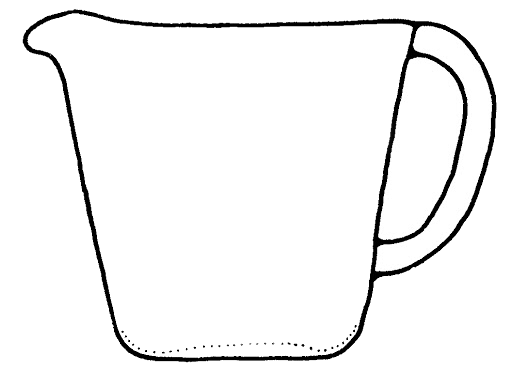
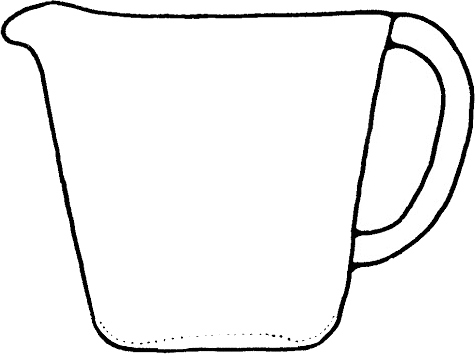
updating cereal measuring cup

Changed region(s): [[0.0, 0.0, 1.0, 1.0]]

diff --git a/index.html b/index.html
@@ -219,8 +219,8 @@
 	          			<div class="content" style="width: auto; height: auto">
 	          				<div class="demo">
 							  <div class="demo__content">
-
 							    <div class="demo__card-cont">
+
 							      <div class="demo__card">
 							        <div class="demo__card__top">
 							        	<div class="scroll">
@@ -229,6 +229,13 @@
 							        		<div class="profile-margin">
 							        			<p class="profile-title" style="margin: 0px">Admiral, <img src="assets/pictures/animalCrossing/horoscope/black-aquarius-2-24.png"></p>
 								        		<hr></hr>
+
+								        		<p>
+								        			aye aye<br/>
+
+								        			Only quitters give up!
+
+								        		</p>
 								        		<div class="level">
 								        			<div class="level-left">
 								        				<p>Steep Hill<br/><img src="assets/pictures/icons/spotify.png" width="20px"> K.K. Slider</p>
@@ -262,7 +269,6 @@
 								        		</div>
 							        		</div>	
 							        	</div>
-
 							        </div>
 							        <div class="demo__card__choice m--reject"></div>
 							        <div class="demo__card__choice m--like"></div>
@@ -309,7 +315,6 @@
 								        		</div>
 							        		</div>	
 							        	</div>
-
 							        </div>
 							        <div class="demo__card__choice m--reject"></div>
 							        <div class="demo__card__choice m--like"></div>
@@ -368,7 +373,7 @@
 	          			<script type="text/javascript" src="javascript/tinder.js"></script>
 	          		</div>
 	          	</div>
-	          	<div class="column is-one-third" style="overflow-y: auto; height: 100vh">
+	          	<div class="column is-one-third" style="overflow-y: auto; height: 100vh;">
 	          		<p class="title">Animal Crossing Tinder</p>
 	          		<p class="text">Lorem ipsum dolor sit amet, consectetur adipisicing elit, sed do eiusmod
 	          		tempor incididunt ut labore et dolore magna aliqua. Ut enim ad minim veniam,
@@ -483,7 +488,7 @@
 	        				</div>
 
 	        				<div class="column">
-	        					<div class="card">
+	        					<div class="card" style="margin-bottom: 10px">
 			        				<div class="card-content" style="padding: 15px">
 									    <div class="media">
 									      <div class="media-left">
@@ -516,14 +521,40 @@
 	        			</div>
 
 	          		<p class="title">References</p>
-	          		<ol>
+	          		<ol style="margin-bottom: 200px">
 		        		<div class="columns" style="margin-bottom: 75px">
 		        			<div class="column">
 		        				<li class="citation">All 391 villagers' Posters <sup><a href="https://animalcrossing.fandom.com/wiki/Villager_list_(New_Horizons)">[1]</a></sup></li>
-
+		        				<li class="citation">All villager face icons <sup><a href="https://imgur.com/a/3NnyBTM">[1]</a></sup></li>
+		        				<li class="citation">Black emoji <sup><a href="https://hotemoji.com/medium-black-circle-emoji.html">[1]</a></sup></li>
+		        				<li class="citation">Green emoji <sup><a href="https://commons.wikimedia.org/wiki/File:LACMTA_Circle_Green_Line.svg">[1]</a></sup></li>
+		        				<li class="citation">Red emoji <sup><a href="https://emojiterra.com/red-circle/">[1]</a></sup></li>
+		        				<li class="citation">Pink emoji <sup><a href="https://toppng.com/ink-circle-clip-art-at-clker-pink-circle-clipart-PNG-free-PNG-Images_273825?search-result=green-circle-paint-splatter">[1]</a></sup></li>
+		        				<li class="citation">Rainbow emoji <sup><a href="https://emojiterra.com/rainbow/">[1]</a></sup></li>
+		        				<li class="citation">Yellow emoji <sup><a href="https://emojiguide.org/yellow-circle">[1]</a></sup></li>
+		        				<li class="citation">Blue emoji <sup><a href="https://hotemoji.com/blue-circle-emoji.html">[1]</a></sup></li>
+		        				<li class="citation">Purple emoji <sup><a href="https://emojiterra.com/purple-circle/">[1]</a></sup></li>
+		        				<li class="citation">White emoji <sup><a href="https://hotemoji.com/medium-white-circle-emoji.html">[1]</a></sup></li>
+		        				<li class="citation">Gray emoji <sup><a href="https://www.uokpl.rs/rsvi/hmooTbx_rageline-gray-circle/">[1]</a></sup></li>
+		        				<li class="citation">Brown emoji <sup><a href="https://emojiterra.com/brown-circle/">[1]</a></sup></li>
+		        				<li class="citation">Aqua emoji <sup><a href="https://nce.aasa.org/">[1]</a></sup></li>
 		        			</div>
 		        			<div class="column">
-		        				<li class="citation">All villager face icons <sup><a href="https://imgur.com/a/3NnyBTM">[1]</a></sup></li>
+		        				<li class="citation">Target emoji <sup><a href="google.com/url?sa=i&url=http%3A%2F%2Ficon-library.com%2Ficon%2Fgoal-icon-png-24.html&psig=AOvVaw1HjrZyGllrcEWP0xBLBykT&ust=1594283695525000&source=images&cd=vfe&ved=0CAIQjRxqFwoTCKDg0umfveoCFQAAAAAdAAAAABAD">[1]</a></sup></li>
+		        				<li class="citation">Modern art emoji <sup><a href="https://www.kisscc0.com/clipart/cubism-graphic-arts-modern-art-abstract-art-bichit-6ze8df/">[1]</a></sup></li>
+		        				<li class="citation">Basic emoji <sup><a href="https://emojiterra.com/neutral-face/">[1]</a></sup></li>
+		        				<li class="citation">Rock emoji <sup><a href="https://www.pngwing.com/en/free-png-yposi">[1]</a></sup></li>
+		        				<li class="citation">Cute emoji <sup><a href="https://emojiterra.com/smiling-face-with-3-hearts/">[1]</a></sup></li>
+		        				<li class="citation">Flashy emoji <sup><a href="https://emojiterra.com/sparkles/">[1]</a></sup></li>
+		        				<li class="citation">Spoon emoji <sup><a href="https://emojiterra.com/spoon/">[1]</a></sup></li>
+		        				<li class="citation">Milk emoji <sup><a href="https://emojipedia.org/google/android-7.0/glass-of-milk/">[1]</a></sup></li>
+		        				<li class="citation">Cow emoji <sup><a href="https://emojiterra.com/cow/">[1]</a></sup></li>
+		        				<li class="citation">Coffee emoji <sup><a href="https://emojiterra.com/hot-beverage/">[1]</a></sup></li>
+		        				<li class="citation">Open book emoji <sup><a href="https://emojiterra.com/open-book/">[1]</a></sup></li>
+		        				<li class="citation">Running emoji <sup><a href="https://creazilla.com/nodes/54350-person-running-emoji-clipart">[1]</a></sup></li>
+		        				<li class="citation">Mirror emoji <sup><a href="https://emojiterra.com/mirror/">[1]</a></sup></li>
+		        				<li class="citation">Sunglasses emoji <sup><a href="https://hotemoji.com/sunglasses-emoji.html">[1]</a></sup></li>
+		        				<li class="citation">Briefcase emoji <sup><a href="https://www.emoji.co.uk/view/10642/">[1]</a></sup></li>
 		        			</div>
 		        		</div>
 	        		</ol>
@@ -1300,7 +1331,7 @@
 	        			<p class="title">References</p>
 	        			<p class="text" style="margin-bottom: 10px">Images</p>
 	        			<ol>
-	        				<div class="columns" style="margin-bottom: 75px">
+	        				<div class="columns" style="margin-bottom: 150px">
 	        					<div class="column">
 	        						<li class="citation">100% Bran - Nabisco<sup><a href="https://www.google.com/url?sa=i&url=https%3A%2F%2Fwww.ebay.com%2Fitm%2F1996-Vintage-Post-Nabisco-100-BRAN-Cereal-Box-RARE-%2F264279819015&psig=AOvVaw3DrsSmwafY32C71qbnjEQQ&ust=1592640600068000&source=images&cd=vfe&ved=0CA0QjhxqFwoTCNDu_sK5jeoCFQAAAAAdAAAAABAD">[1]</a></sup></li>
 			        				<li class="citation">100% Natural Bran - Quaker</li>
@@ -1386,13 +1417,9 @@
 			        				<li class="citation">Wheaties - General Mills<sup><a href="https://www.google.com/url?sa=i&url=https%3A%2F%2Fmedium.com%2F%40michaelmargulis%2Fthe-wheaties-principle-how-players-market-themselves-and-their-likeness-57bec9506ae2&psig=AOvVaw1lI7kDqlA9c7V5lmI1OF4u&ust=1592711498476000&source=images&cd=vfe&ved=0CAIQjRxqFwoTCJDk3-u-j-oCFQAAAAAdAAAAABAZ">[1]</a></sup></li>
 			        				<li class="citation">Wheaties Honey Gold - General Mills<sup><a href="https://www.google.com/url?sa=i&url=https%3A%2F%2Fwww.mrbreakfast.com%2Fcereal_detail.asp%3Fid%3D1196&psig=AOvVaw1V7rZQpfbbt1JUBmA1X5qg&ust=1592711562960000&source=images&cd=vfe&ved=0CAIQjRxqFwoTCKiRm4q_j-oCFQAAAAAdAAAAABAD">[1]</a></sup></li>
 			        				<li class="citation">Measuring Cup Clipart<sup><a href="https://www.google.com/url?sa=i&url=http%3A%2F%2Fclipart-library.com%2Fpicture-of-a-measuring-cup.html&psig=AOvVaw3l098iTCX6qr1Lzgi1cwIo&ust=1592798382168000&source=images&cd=vfe&ved=0CAIQjRxqFwoTCMjMiMiCkuoCFQAAAAAdAAAAABAD">[1]</a></sup></li>
-			        				<li class="citation">Observable Icon<sup><a href="https://www.google.com/search?q=observable+icon&safe=strict&rlz=1C1CHBF_enUS825US825&sxsrf=ALeKk00JZoGVLqhHNOUQo4bjpMSUJa4mxA:1593040399653&tbm=isch&source=iu&ictx=1&fir=nxK4U3hFWzgFPM%252Cm6jCB4waESzFmM%252C_&vet=1&usg=AI4_-kQ2sO3wFdCGaNbi3zFgJ6nB6uBOZQ&sa=X&ved=2ahUKEwjV4Ij5yZvqAhUO5awKHfM4C0sQ9QEwAnoECAcQFw#imgrc=nxK4U3hFWzgFPM">[1]</a></sup></li>
-			        				<li class="citation">Codepen Icon<sup><a href="https://www.google.com/url?sa=i&url=https%3A%2F%2Fwww.iconfinder.com%2Ficons%2F167634%2Fcodepen_icon&psig=AOvVaw2qtqsXa8O4MF2VFPz7dPTq&ust=1593126876971000&source=images&cd=vfe&ved=0CAIQjRxqFwoTCOCIjZ7Km-oCFQAAAAAdAAAAABAD">[1]</a></sup></li>
 			        				<li class="citation">Shelves<sup><a href="https://svgsilh.com/image/575818.html">[1]</a></sup></li>
 	        					</div>
 	        				</div>
-	        				
-	        				
 	        			</ol>
 	        		</div>
 	        	</div>
@@ -1402,8 +1429,6 @@
 	    
 	    <div class="box__close"></div>
 
-	    
-		
 	</div>
 
 	<footer class="footer">

diff --git a/javascript/cereal.js b/javascript/cereal.js
@@ -176,7 +176,7 @@ d3.csv("data/cereal.csv").then(function(csv) {
               </div>
             </div>
           </div>
-          <div class="columns">
+          <div class="columns" style="margin-bottom: 50px">
             <div class="column">
 
               <section class="performance-facts" style="margin:0px">
@@ -261,9 +261,13 @@ d3.csv("data/cereal.csv").then(function(csv) {
               </section>
             </div>
             <div class="column">
-              <svg id="cup" width="300" height="270" style="margin-top: 50px"></svg>
+              <div style="position: relative; top: 0; left: 0; width: 300px; margin-top: 40px">
+                <img src="assets/pictures/cereal/cup.png" width="300px" height="300px" style="z-index: 3; position: absolute">
+                <svg id="cup" width="300px" height="220px" style="z-index:1; position: absolute;"></svg>
+              </div>
+              
             </div>
-            <div class="column" style="position: relative; top: 0; left: 0;">
+            <div class="column" style="position: relative; top: 0; left: 0; width: 300px">
               <img src="assets/pictures/cereal/shelf.svg" width="300px" height="300px" id="shelf" style="position: relative; top: 0; left: 0;">
               <img src="${d.boxImage}" width="45" height="auto" style="position: absolute; top: ${shelfpos}; left: 120px; z-index: 2"></img>
             </div>
@@ -273,12 +277,20 @@ d3.csv("data/cereal.csv").then(function(csv) {
         details.style("visibility", "visible");
 
         cup = d3.select("#cup");
-        cup.style("background", "url('assets/pictures/cereal/cup.png')")
-          .style("background-size", "contain")
-          .style("background-repeat", "no-repeat")
+        
         var y = d3.scaleLinear()
           .domain([0, 4])
-          .range([195,30])
+          .range([205,25])
+
+        
+
+        cup.append("g")
+          .append("rect")
+          .attr("x", 0)
+          .attr("y",  y(d.cups))
+          .attr("width", 300)
+          .attr("fill", "#d2b48c")
+          .attr("height", 300 - y(d.cups))
 
         cup.append("g")
           .attr("transform", "translate(150,0)")
@@ -291,7 +303,7 @@ d3.csv("data/cereal.csv").then(function(csv) {
          .style("width", "120px")
         .style("height", "40px")
         .style("left", (d.x + 30) + "px")
-        .style("top", (d.y +550) + "px")
+        .style("top", (d.y +1350) + "px")
         .style("padding", "6px")
         .style("visibility", "visible");
       })

diff --git a/style.css b/style.css
@@ -753,10 +753,7 @@ li.citation{
   position: relative;
   width: 20.5rem;
 }
-.demo__header {
-  height: 6rem;
-  background: #002942;
-}
+
 .demo__content {
   overflow: hidden;
   position: relative;
@@ -826,15 +823,7 @@ li.citation{
   font-weight: bold;
   color: #fff;
 }
-.demo__card__btm {
-  height: 11.5rem;
-  background: #FFFFFF;
-}
-.demo__card__we {
-  text-align: center;
-  font-size: 2.2rem;
-  line-height: 11.5rem;
-}
+
 .demo__card__choice {
   position: absolute;
   border-radius: 10px;
@@ -869,12 +858,7 @@ li.citation{
   border-top-left-radius: 1.5rem;
   border-top-right-radius: 1.5rem;
 }
-.demo__card__choice.m--reject {
-  background: #FF945A;
-}
-.demo__card__choice.m--like {
-  background: #B1DA96;
-}
+
 .demo__card__choice.m--like:after {
   -webkit-transform: scaleY(-1);
           transform: scaleY(-1);
@@ -888,10 +872,6 @@ li.citation{
   height: 80%;
   cursor: -webkit-grab;
   cursor: grab;
-}
-.demo__tip {
-  text-align: center;
-  font-size: 2.2rem;
 }
 
 .profile-margin {

diff --git a/javascript/ramen.js b/javascript/ramen.js
@@ -7,9 +7,9 @@ d3.csv("data/ramen.csv").then(function(csv){
     	return air[0];
     	 })
     .key(function(d) { return d.genre; })*/
-    .key(function(d) { 
+    /*.key(function(d) { 
         return d.Style;
-    })/*
+    })*//*
     .key(function(d) { return d.Brand; })
     .key(function(d) { 
         return Math.trunc(parseFloat(d.Stars)); })*/

diff --git a/README.md b/README.md
@@ -38,3 +38,7 @@ Other References
 + Spotify Icon - https://www.flaticon.com/free-icon/spotify_174872
 
 + Stack Overflow - https://stackoverflow.com/company/logos
+
++ Observable - https://www.google.com/search?q=observable+icon&safe=strict&rlz=1C1CHBF_enUS825US825&sxsrf=ALeKk00JZoGVLqhHNOUQo4bjpMSUJa4mxA:1593040399653&tbm=isch&source=iu&ictx=1&fir=nxK4U3hFWzgFPM%252Cm6jCB4waESzFmM%252C_&vet=1&usg=AI4_-kQ2sO3wFdCGaNbi3zFgJ6nB6uBOZQ&sa=X&ved=2ahUKEwjV4Ij5yZvqAhUO5awKHfM4C0sQ9QEwAnoECAcQFw#imgrc=nxK4U3hFWzgFPM
+
++ Codepen - https://www.google.com/url?sa=i&url=https%3A%2F%2Fwww.iconfinder.com%2Ficons%2F167634%2Fcodepen_icon&psig=AOvVaw2qtqsXa8O4MF2VFPz7dPTq&ust=1593126876971000&source=images&cd=vfe&ved=0CAIQjRxqFwoTCOCIjZ7Km-oCFQAAAAAdAAAAABAD
